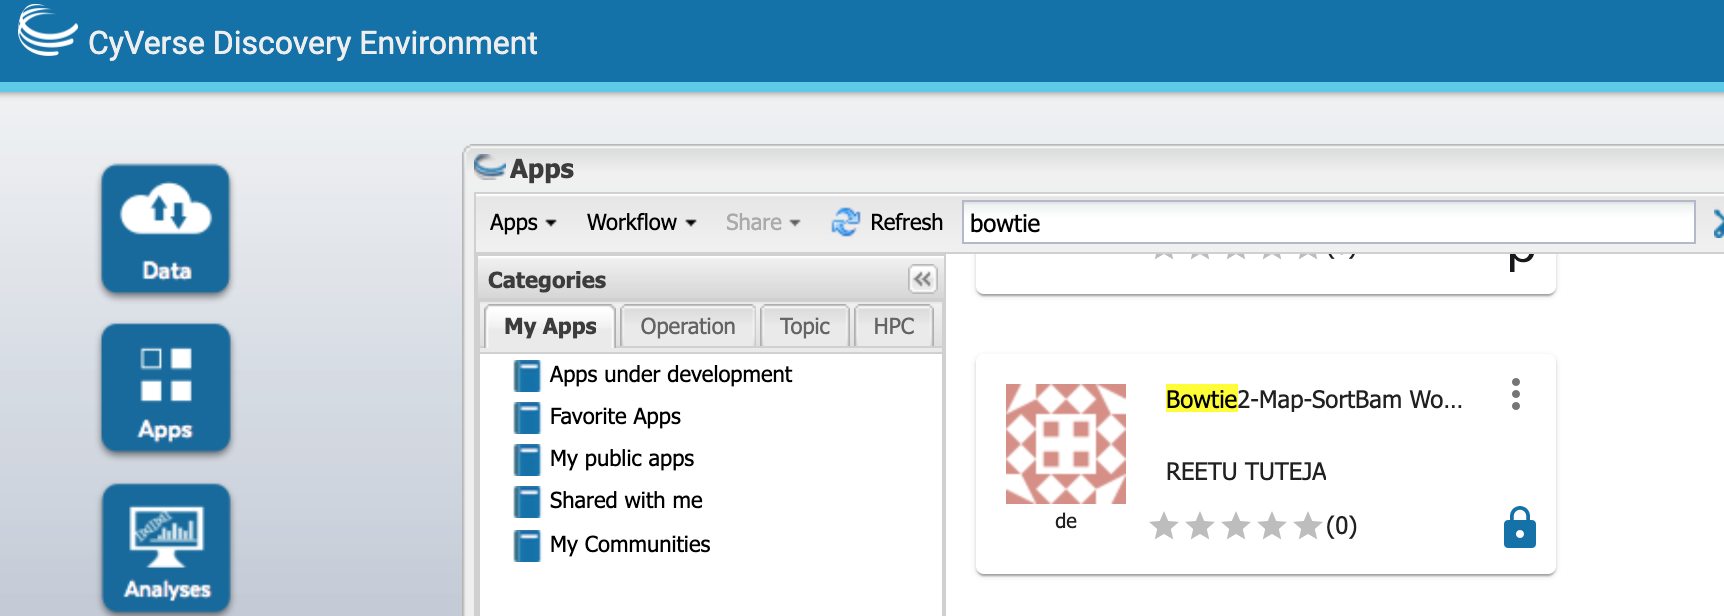
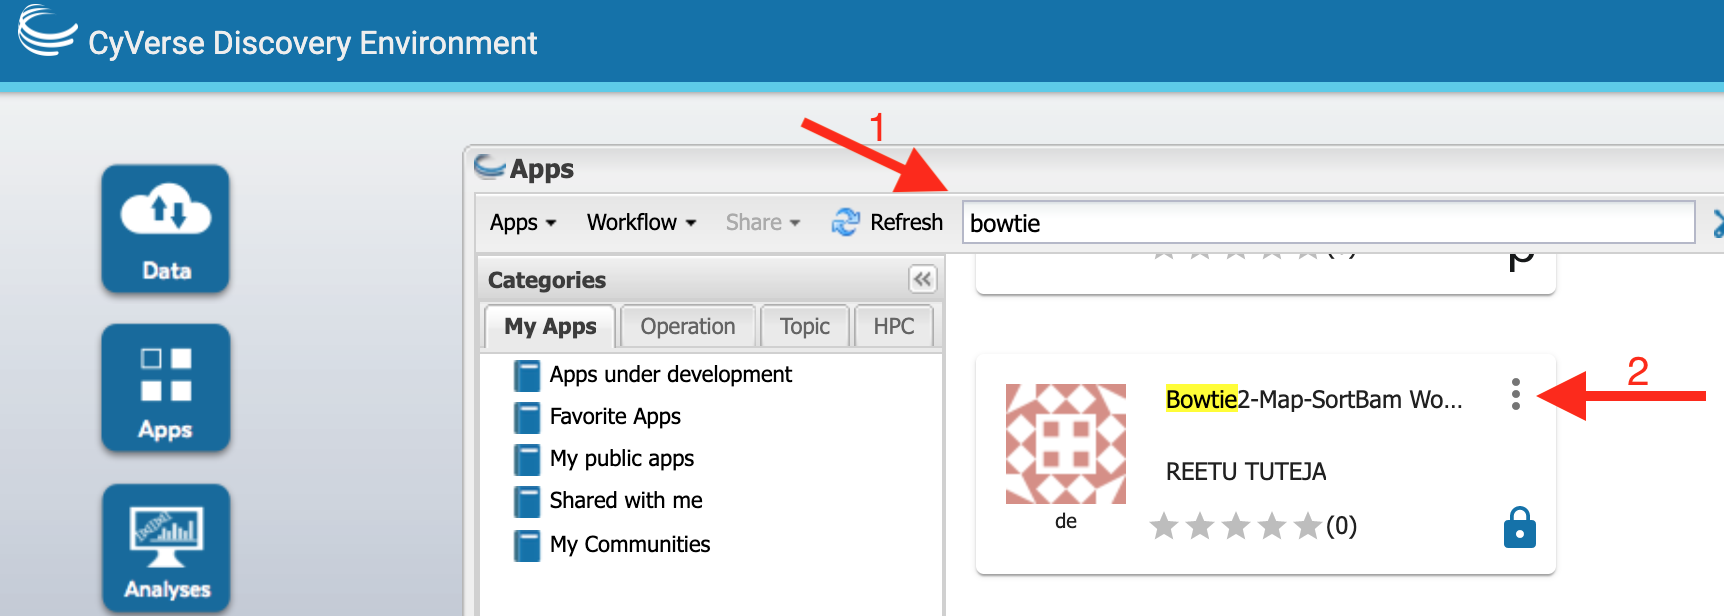
update Day1

Changed region(s): [[0.8915, 0.6169, 1.0, 0.6786], [0.4611, 0.1851, 0.5534, 0.3084]]

diff --git a/Day1.md b/Day1.md
@@ -13,22 +13,6 @@
 
 Explain what the "Analyses", "Apps", and "Data" buttons do on the DE desktop
 
-## Add the data folder to your favorites
-
-Your life will be __much__ easier if  you create a favorite for the folder that that contains the data for this lab.
-
-Click on `Data`.  
-
-![](figs/DEData.png)
-
-Then navigate to `Shared with me`.  Scroll down and click on `sharmer`.  
-
-![](figs/SharedSharmer.png)
-
-Next, click on the `...` next to the `mcb160l` folder and select `add to favorites` 
-
-![](figs/Favorites.png)
-
 --- 
 
 ## Map reads to Columbia reference genome
@@ -37,11 +21,20 @@ Click on Apps
 
 ![](figs/CyverseDesktopApps.png)
 
-Type `bowtie2` in the search bar and then scroll the results until you find Bowtie2-Map-SortBam Workflow by Reetu Tuteja.
+Type `bowtie2` in the search bar and then scroll through the results until you find Bowtie2-Map-SortBam Workflow by Reetu Tuteja.
+
+Click on the 3 dots to the right of the app name.
 
 ![](figs/Bowtie2AppSearch.png)
 
-Click on the app name.
+Click on Quick Launch
+
+![](figs/Bowtie2AppQL.png)
+
+Click on MCB160L and then the arrowhead
+
+![](figs/Bowtie2AppQL2.png)
+
 
 ### Analysis Name, etc.
 
@@ -53,15 +46,17 @@ You can leave the Analysis Name, Comments, and Output Folder with the default se
 
 Click on `bowtie2-2.2.4-align-ud - Input files`
 
-For `Bowtie2 index name:` input `TAIR10_chr_all` __Caps matter__ enter it exactly as shown.
+`Bowtie2 index name:` tells the aligner the name of the indexed genome file.  We have filled this in for you, it should read `TAIR10_chr_all`
 
-For `index folder` click on `Browse` and navigate to `Shared with me > sharmer > mcb160l` and then select `reference` and click OK.  (Unfortunately the favorites doesn't work to select a folder).
-
-![](figs/ReferenceFolder.png)
+`index folder` tells the aligner where to find the indexed genome files.  We have filled this in for you.  
 
 Leave `Left reads` and `Right reads` blank
 
-For `Unpaired reads`, click on `Browse` and then `Favorites`, then click on the mutant you were assigned (`EMSXX`).  Finally select the `fastq` file (`EMSXX.fastq` ) and click OK.  (Instead of XX you will have two numbers).  (Or if you don't have favorites set up, then navigate to `Shared with me > sharmer > mcb160l` and continue as above)
+For `Unpaired reads`, we need to tell the aligner where to find the FASTQ files for your mutant.  click on `Browse` and then  navigate to `Shared with me`.  Scroll down and click on `sharmer`.  
+
+![](figs/SharedSharmer.png)
+
+Next click on `mcb160l`, and then the mutant you were assigned (`EMSXX`).  Finally select the `fastq` file (`EMSXX.fastq` ) and click OK.  (Instead of XX you will have two numbers). 
 
 ![](figs/EMS01fastq.png)
 
@@ -69,17 +64,7 @@ When you are done it should look something like this:
 
 ![](figs/Bowtie2InputFiles.png)
 
-### bowtie2-2.2.4-align-ud - Output files
-
-You can leave `bowtie2-2.2.4-align-ud - Output files` set to its default
-
-### Samtools 1.11 Sort BAM file - Output file
-
-Click on this and select "BAM" for `Output file format`
-
-![](figs/Bowtie2SortOut.png)
-
-Now click "Launch Analysis"
+The rest of the pages can be left with their default values.  It is time to launch the analysis!  Click "Launch Analysis" at the bottom right of the window.
 
 You can check on the status by clicking on the Analysis button and then pressing refresh.  Make sure that the status changes to `running` and check back after a few minutes to make sure it is still `running`.  If it switches to `failed` something went wrong.  It will take between 1 and 2 hours to complete, depending on which data set you are using.
 
@@ -96,4 +81,39 @@ You can check on the status by clicking on the Analysis button and then pressing
 
 While your Bowtie2 analysis is running, check the quality of reads in your fastq file.  (Normally we would do this first, but because Bowtie2 takes a long time to run we started it first)
 
-__STILL NEED TO FILL THIS IN__
+### Run FastQC
+
+Here we use a program called `FastQC`.
+
+Click on your `Apps` button and enter `fastqc` in the search bar.  Scroll until you find `FastQC 0.11.5 (multi-file)` by Upendra Kumar Devisetty.
+
+![](figs/FastQCAppSearch.png)
+
+Instead of using a QuickLaunch, just click on the app title to launch it.
+
+Click on `Input` and then "Add".  Navigate to the same fastqc file you used in the step above by clicking on `Shared with me`.  Scroll down and click on `sharmer`.  
+
+![](figs/SharedSharmer.png)
+
+Next click on `mcb160l`, and then the mutant you were assigned (`EMSXX`).  Finally select the `fastq` file (`EMSXX.fastq` ) and click OK.
+
+When you are done your input box should look like this:
+
+![](figs/FastQCInput.png)
+
+Now you can launch by clicking on `Launch Analysis`
+
+This will take about 1 minute to run.
+
+### Look at the results.
+
+Click on the Analyses button and then click on refresh.  When the FastQC...analyses status switches to complete, click on the 3 dots to the right
+
+![](figs/FastQCout1.png)
+
+Next click on `Go to output folder`
+ 
+ ![](figs/FastQCout2.png)
+ 
+ Finally, click on the `EMSXX_fastqc.html` file and it will open your report in a new window in your browser.
+
